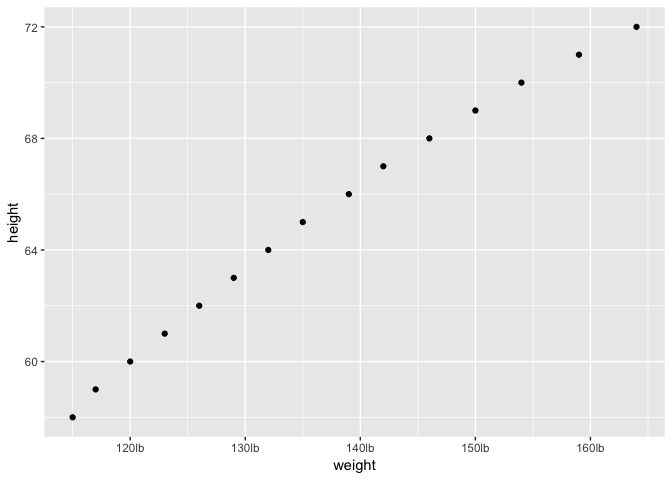
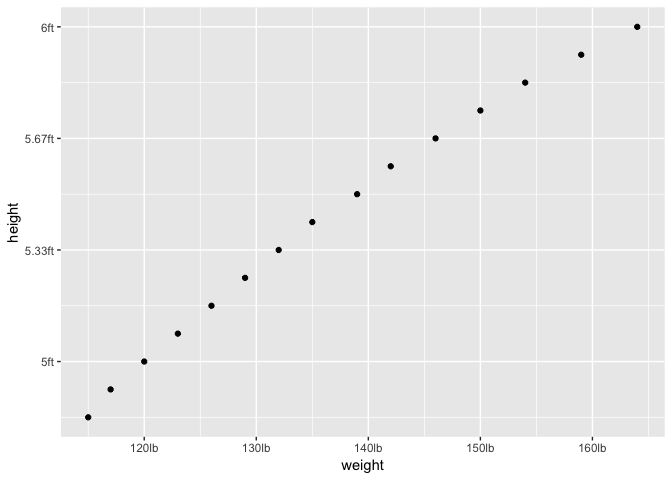
adding ignore argument

diff --git a/README.md b/README.md
@@ -42,7 +42,8 @@ library(unitscales)
 ``` r
 ggplot(women, aes(weight, height)) +
   geom_point() +
+  scale_y_length(base = "inch", system = "imperial", ignore = "yard") +
   scale_x_mass(base = "pound", system = "imperial")
 ```
 
-<img src="man/figures/README-unnamed-chunk-2-1.png" width="100%" />
+<img src="man/figures/README-unnamed-chunk-2-1.png" width="100%" /> q
